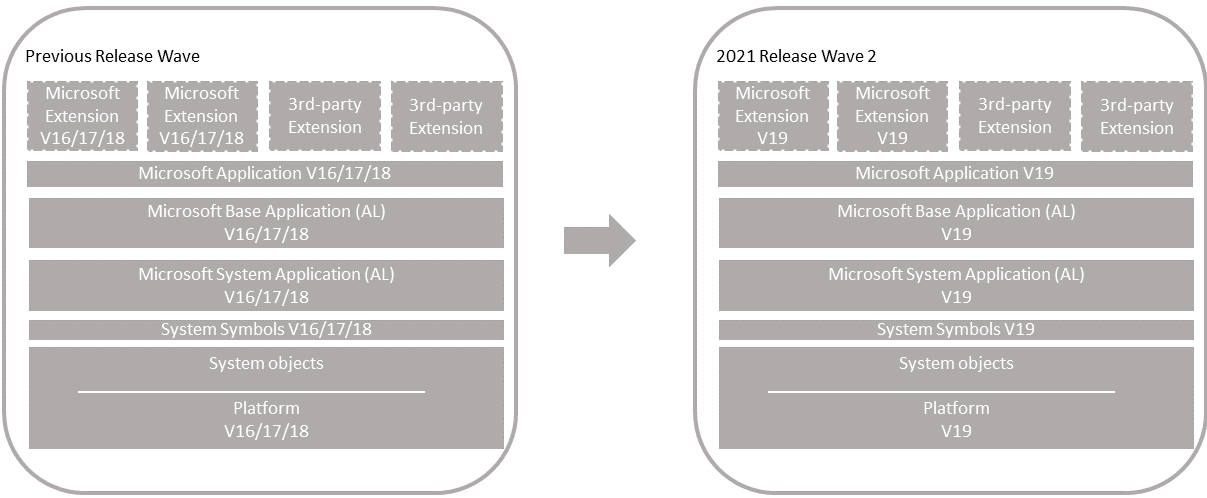
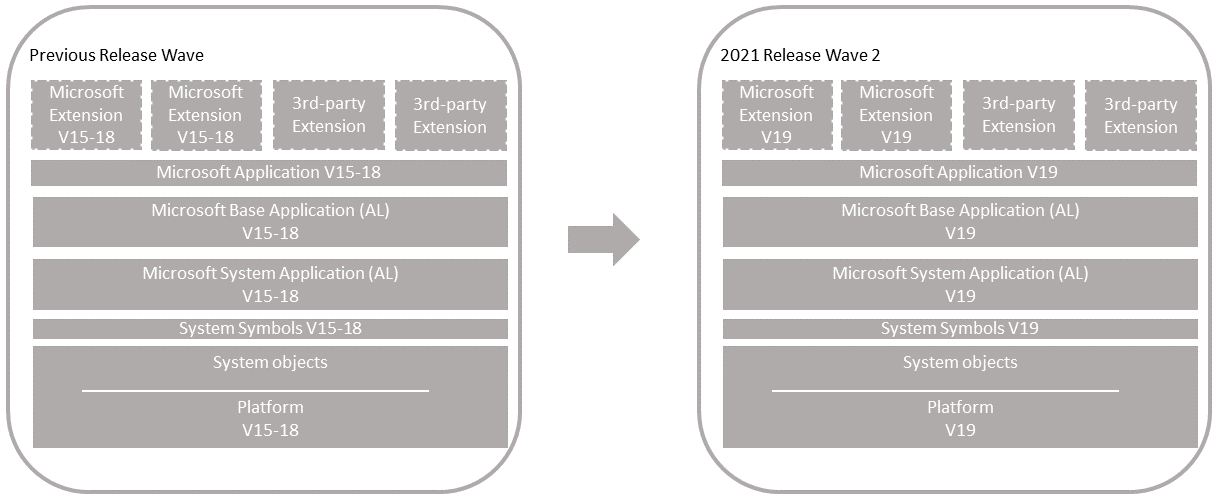
update (#3743)

diff --git a/dev-itpro/upgrade/upgrade-unmodified-application-to-v20.md b/dev-itpro/upgrade/upgrade-unmodified-application-to-v20.md
@@ -2,7 +2,7 @@
 title: "Upgrading Version 15, 16, 17, or 18 Base Application to Version 20"
 description: Describes how to upgrade an unmodified Business Central 17, 18, or 19 to version 20
 ms.custom: na
-ms.date: 03/03/2022
+ms.date: 06/02/2022
 ms.reviewer: na
 ms.suite: na
 ms.tgt_pltfrm: na
@@ -13,12 +13,16 @@ author: jswymer
 
 # Upgrading Microsoft System and Base Application to Version 20
 
-Use this scenario if you have one of the following versions that uses the Microsoft System and Base applications.
+Use this scenario if you have one of the following [!INCLUDE[prod_short](../developer/includes/prod_short.md)] versions that use the Microsoft System and Base applications.
 
-- [!INCLUDE[prod_short](../developer/includes/prod_short.md)] 2021 release wave 2 (version 19)
-- [!INCLUDE[prod_short](../developer/includes/prod_short.md)] 2021 release wave 1 (version 18)
-- [!INCLUDE[prod_short](../developer/includes/prod_short.md)] 2020 release wave 2 (version 17)
+- 2021 release wave 2 (version 19)
+- 2021 release wave 1 (version 18)
+- 2020 release wave 2 (version 17)
+- 2020 release wave 1 (version 16)
+- 2019 release wave 2 (version 15)
 
+> [!IMPORTANT]
+> See [Upgrade Compatibility Matrix](upgrade-v14-v15-compatibility.md) to determine which update of version 20 is compatible with your current Business Central version.
 
 [![Upgrade on unmodified Business Central application.](../developer/media/bc20-upgrade-unmodified-app.png)](../developer/media/bc20-upgrade-unmodified-app.png#lightbox)  
 
@@ -60,7 +64,7 @@ $AddinsFolder = "The file path to the Add-ins folder of version 20 server instal
 
     For more information, see [[!INCLUDE[prod_long](../developer/includes/prod_long.md)] Upgrade Compatibility Matrix](upgrade-v14-v15-compatibility.md).
 
-2. Before you install version 20, it can be useful to create desktop shortcuts to the tools of the current version, such as the [!INCLUDE[admintool](../developer/includes/admintool.md)], [!INCLUDE[adminshell](../developer/includes/adminshell.md)], and [!INCLUDE[devshell](../developer/includes/devshell.md)] because the Start menu items for these tools will be replaced with the version 20 tools.
+2. Before you install version 20, it can be useful to create desktop shortcuts to the tools of the current version, such as the [!INCLUDE[admintool](../developer/includes/admintool.md)] and [!INCLUDE[adminshell](../developer/includes/adminshell.md)] because the Start menu items for these tools will be replaced with the version 20 tools.
 
 3. Install Business Central version 20 components.
 
@@ -271,8 +275,8 @@ The steps in this task continue to use the [!INCLUDE[adminshell](../developer/in
     ```powershell  
     Repair-NAVApp -ServerInstance $NewBcServerInstance -Name <extension name> -Version <extension name>
     ```
-    
-    For example, to recompile all extensions that are not published by Microsoft, you could run the following command:
+
+    For example, to recompile all extensions that aren't published by Microsoft, you could run the following command:
 
     ```powershell  
     Get-NAVAppInfo -ServerInstance $NewBcServerInstance | Where-Object {$_.Publisher -notlike 'Microsoft'} | Repair-NAVApp

diff --git a/dev-itpro/upgrade/upgrade-unmodified-application-to-v19.md b/dev-itpro/upgrade/upgrade-unmodified-application-to-v19.md
@@ -13,11 +13,15 @@ author: jswymer
 
 # Upgrading Microsoft System and Base Application to Version 19
 
-Use this scenario if you have one of the following versions that uses the Microsoft System and Base applications.
+Use this scenario if you have one of the following [!INCLUDE[prod_short](../developer/includes/prod_short.md)] versions that uses the Microsoft System and Base applications.
 
-- [!INCLUDE[prod_short](../developer/includes/prod_short.md)] 2021 release wave 1 (version 18)
-- [!INCLUDE[prod_short](../developer/includes/prod_short.md)] 2020 release wave 2 (version 17)
-- [!INCLUDE[prod_short](../developer/includes/prod_short.md)] 2020 release wave 1 (version 16)
+- 2021 release wave 1 (version 18)
+- 2020 release wave 2 (version 17)
+- 2020 release wave 1 (version 16)
+- 2019 release wave 2 (version 15)
+
+> [!IMPORTANT]
+> See [Upgrade Compatibility Matrix](upgrade-v14-v15-compatibility.md) to determine which update of version 19 is compatible with your current Business Central version.
 
  ![Upgrade on unmodified Business Central application.](../developer/media/bc19-upgrade-unmodified-app.png "Upgrade on unmodified Business Central application") 
 

diff --git a/dev-itpro/TOC.md b/dev-itpro/TOC.md
@@ -4138,7 +4138,7 @@
 #### Application and Data
 ##### [From version 14 Unmodified C/AL Application](upgrade/upgrade-unmodified-application-v14-v20.md)
 ##### [From version 14 Customized C/AL Application](upgrade/upgrade-to-microsoft-base-app-v20.md)
-##### [From Versions 17, 18, or 19 Microsoft Base Application](upgrade/upgrade-unmodified-application-to-v20.md)
+##### [From Version 15 and Later](upgrade/upgrade-unmodified-application-to-v20.md)
 ##### Related Articles
 ###### [Convert to AL](upgrade/devenv-code-conversion.md)
 ###### Migrating Tables and Fields Between Extensions
@@ -4158,7 +4158,7 @@
 #### Application and Data
 ##### [From version 14 Unmodified C/AL Application](upgrade/upgrade-unmodified-application-v14-v19.md)
 ##### [From version 14 Customized C/AL Application](upgrade/upgrade-to-microsoft-base-app-v19.md)
-##### [From Versions 16, 17, or 18 Microsoft Base Application](upgrade/upgrade-unmodified-application-to-v19.md)
+##### [From Versions 15 and Later](upgrade/upgrade-unmodified-application-to-v19.md)
 ##### Related Articles
 ###### [Convert to AL](upgrade/devenv-code-conversion.md)
 ###### Migrating Tables and Fields Between Extensions
